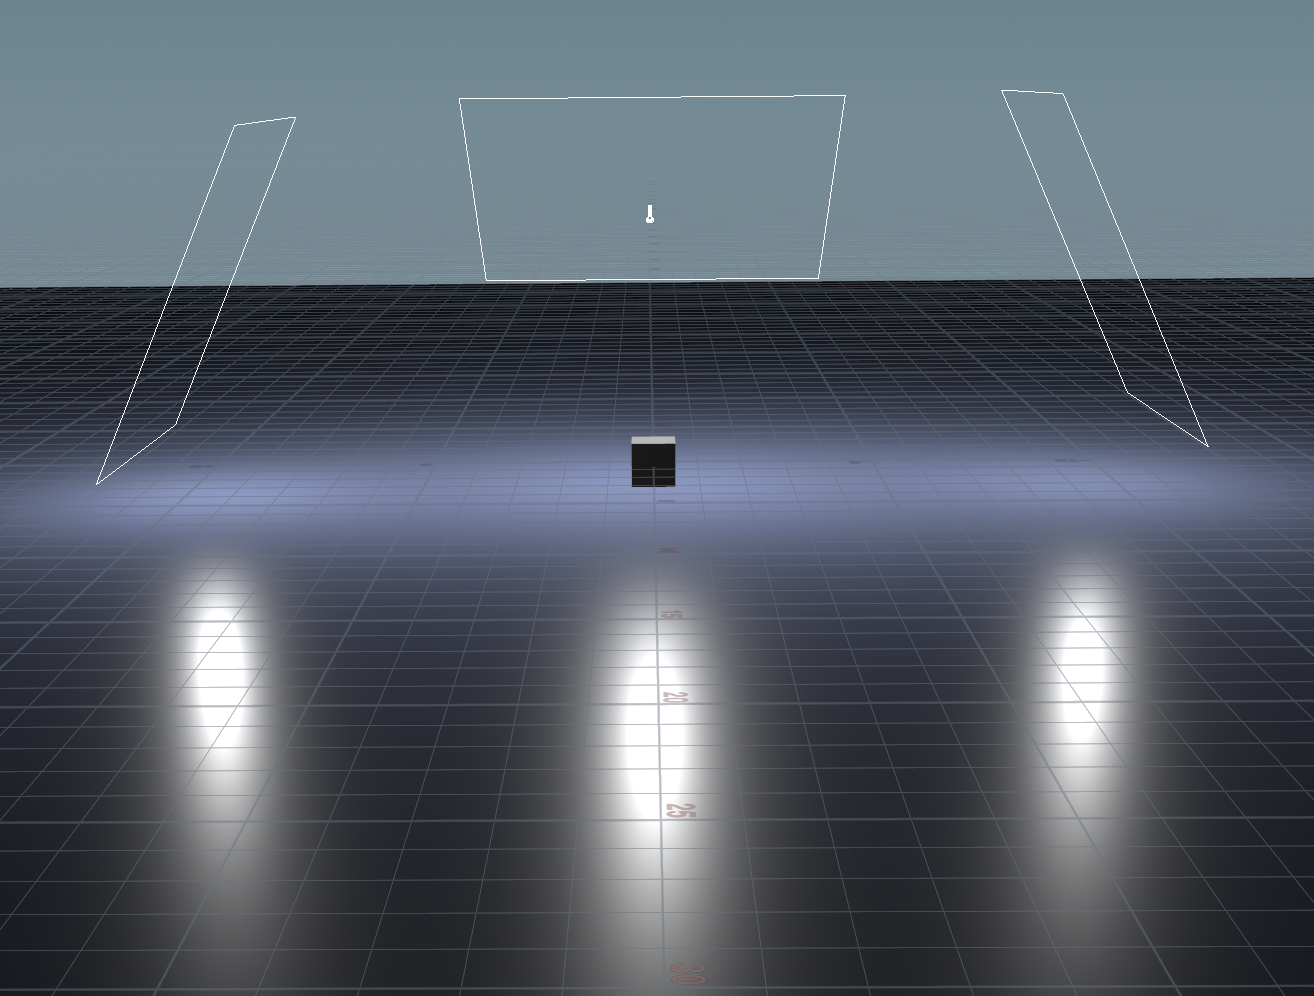
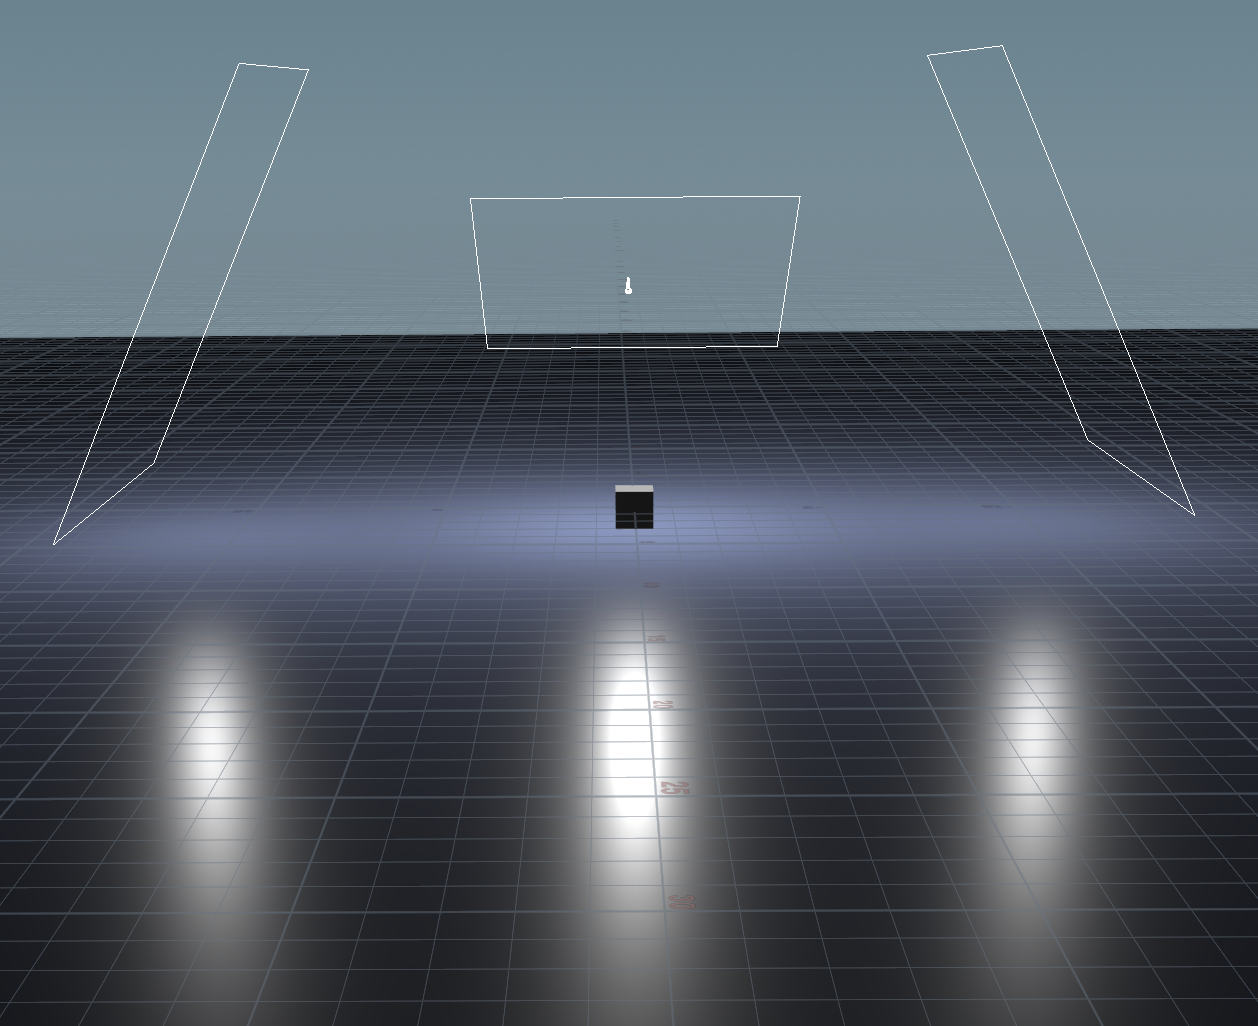
Update

diff --git a/houdini/tutorials/houdini-donut-render.md b/houdini/tutorials/houdini-donut-render.md
@@ -39,6 +39,7 @@ This tutorial describes how to setup a render of an object on a plane. It goes t
 2. From the camera pop-up in the upper right of the viewport, select `Look Through Light > arealight2` to view through the new light.
 3. Click the `Lock camera/light to view` icon in the sidebar on the right to move `arealight2`. Move the light somewhere that fills in the scene a bit more.
 4. Add a third light and do the same.
-5. For lights `arealight2` and `arealight3` (the side fill lights), set `Exposure: 1` and `Intensity: 5`. For `arealight1` (the main center light), set `Exposure: 1` and `Intensity: 10`
+5. For `arealight1` (the main center light), set `Exposure: 1` and `Intensity: 10`.
+6. For lights `arealight2` and `arealight3` (the two side lights), set `Exposure: 1`, `Intensity: 5`, and `Area Size: 12, 12`.
 
 ![Lighting](assets/houdini-donut-render-lighting.png)
